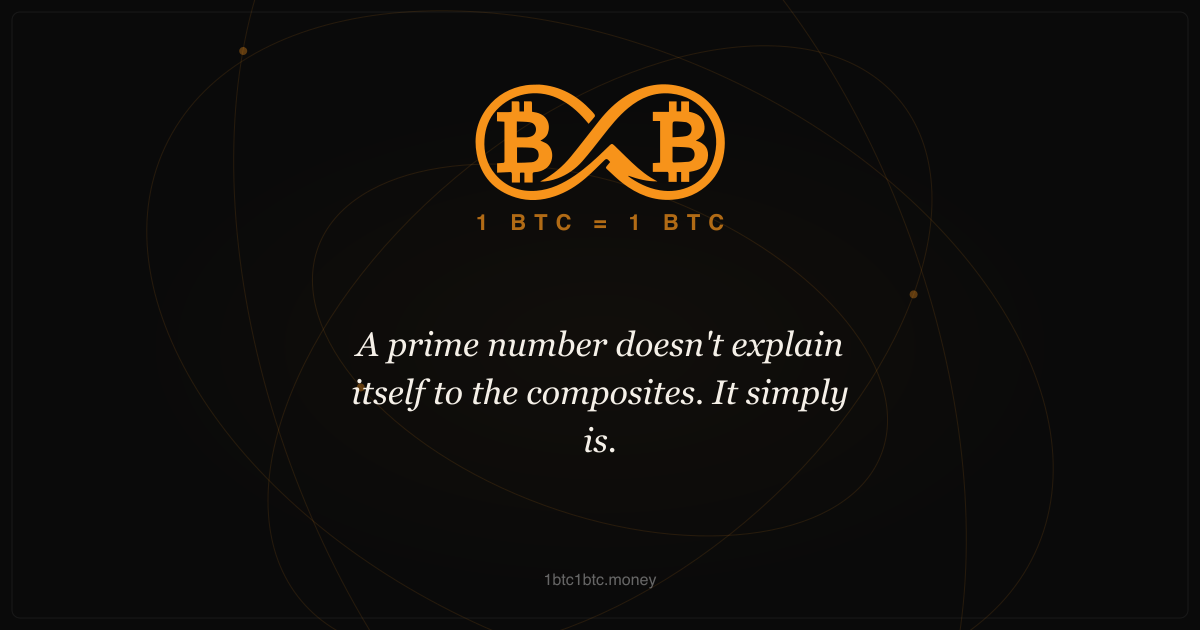
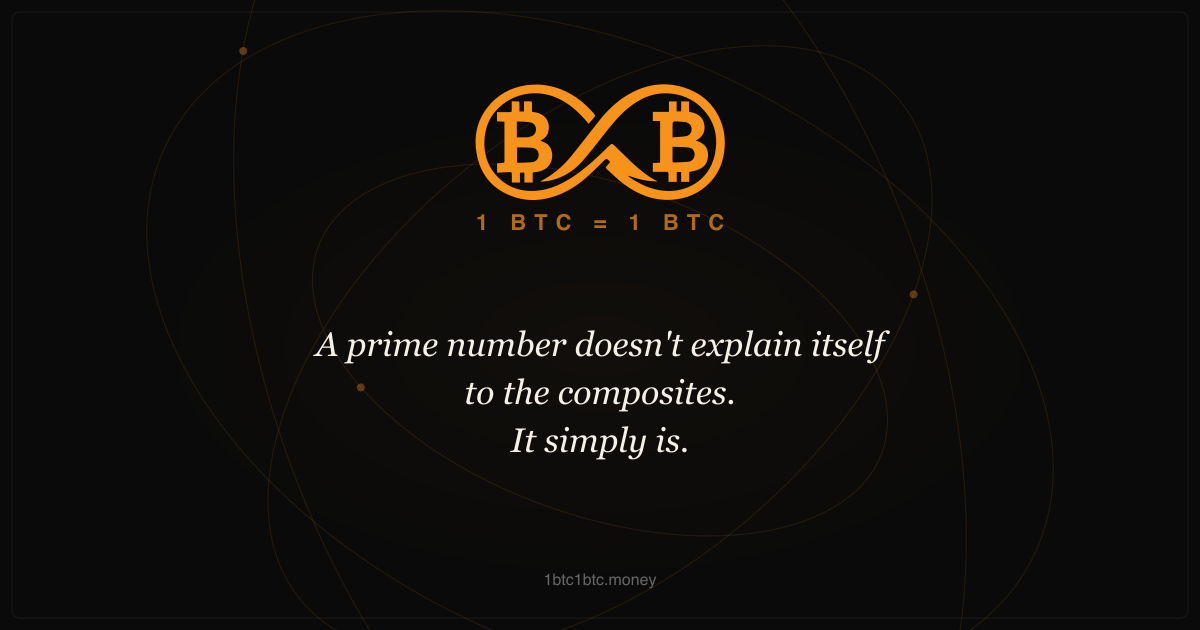
Add info button with about modal to frame, fix OG image line breaks
Info button (circle-i) in upper-left opens an in-frame About modal
using about.md. OG image text manually split so "It simply is." gets
its own line.

Changed region(s): [[0.2775, 0.6032, 0.7092, 0.7238], [0.2467, 0.5127, 0.74, 0.573]]

diff --git a/components/frame/FrameApp.tsx b/components/frame/FrameApp.tsx
@@ -9,6 +9,7 @@ import { FrameGallery } from "@/components/frame/FrameGallery";
 import { OrbitalBackground } from "@/components/OrbitalBackground";
 import { ProgressBar } from "@/components/ProgressBar";
 import { Ticker } from "@/components/Ticker";
+import ABOUT_MD from "@/about.md";
 import TOS_MD from "@/terms-of-service.md";
 import styles from "./FrameApp.module.css";
 
@@ -45,6 +46,7 @@ export function FrameApp() {
   const [mintedAnalogy, setMintedAnalogy] = useState<string | null>(null);
   const [mintVisible, setMintVisible] = useState(false);
   const [termsOpen, setTermsOpen] = useState(false);
+  const [aboutOpen, setAboutOpen] = useState(false);
   const hasGeneratedRef = useRef(false);
 
   const handleOpenTerms = useCallback(() => {
@@ -93,6 +95,18 @@ export function FrameApp() {
     <div className={styles.container}>
       <ProgressBar />
       <OrbitalBackground />
+
+      <button
+        className={styles.infoButton}
+        onClick={() => setAboutOpen(true)}
+        aria-label="About & Terms"
+      >
+        <svg width="18" height="18" viewBox="0 0 24 24" fill="none" stroke="currentColor" strokeWidth="2" strokeLinecap="round" strokeLinejoin="round">
+          <circle cx="12" cy="12" r="10" />
+          <line x1="12" y1="16" x2="12" y2="12" />
+          <line x1="12" y1="8" x2="12.01" y2="8" />
+        </svg>
+      </button>
       <Image
         src="/logo.png"
         alt="1BTC=1BTC"
@@ -137,6 +151,30 @@ export function FrameApp() {
       <FrameGallery />
 
       <Ticker />
+
+      {aboutOpen && (
+        <div
+          className={styles.termsModal}
+          onClick={(e) => {
+            if (e.target === e.currentTarget) setAboutOpen(false);
+          }}
+        >
+          <div className={styles.termsContent}>
+            <div className={styles.termsHeader}>
+              <h2 className={styles.termsTitle}>About 1BTC1BTC</h2>
+              <button
+                className={styles.termsClose}
+                onClick={() => setAboutOpen(false)}
+              >
+                ×
+              </button>
+            </div>
+            <div className={styles.termsBody}>
+              {renderMarkdown(ABOUT_MD)}
+            </div>
+          </div>
+        </div>
+      )}
 
       {termsOpen && (
         <div

diff --git a/components/frame/FrameApp.module.css b/components/frame/FrameApp.module.css
@@ -11,6 +11,29 @@
   -webkit-overflow-scrolling: touch;
 }
 
+.infoButton {
+  position: fixed;
+  top: 52px;
+  left: 12px;
+  z-index: 100;
+  background: rgba(255, 255, 255, 0.06);
+  border: 1px solid rgba(255, 255, 255, 0.1);
+  border-radius: 50%;
+  width: 32px;
+  height: 32px;
+  display: flex;
+  align-items: center;
+  justify-content: center;
+  cursor: pointer;
+  color: var(--color-text-muted);
+  transition: all 0.2s ease;
+}
+
+.infoButton:hover {
+  background: rgba(255, 255, 255, 0.1);
+  color: var(--color-text);
+}
+
 .logo {
   width: 48px;
   height: auto;
